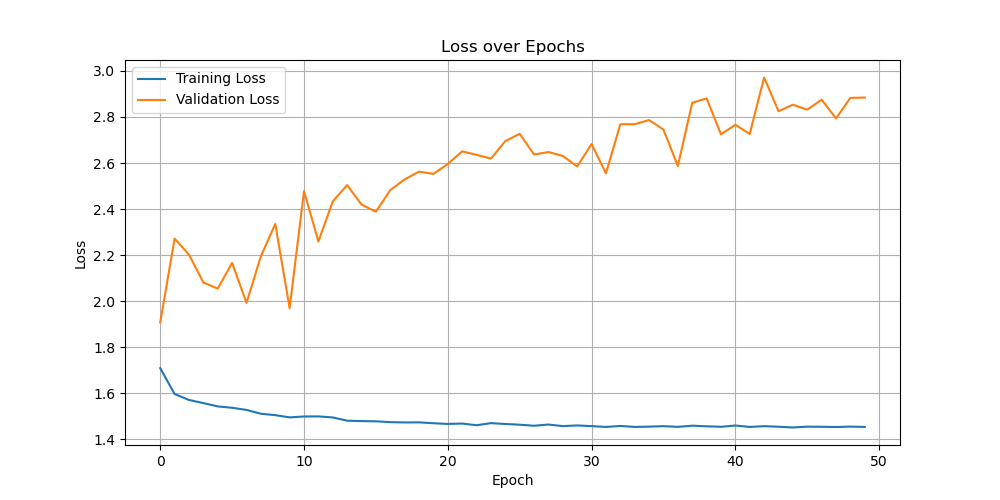
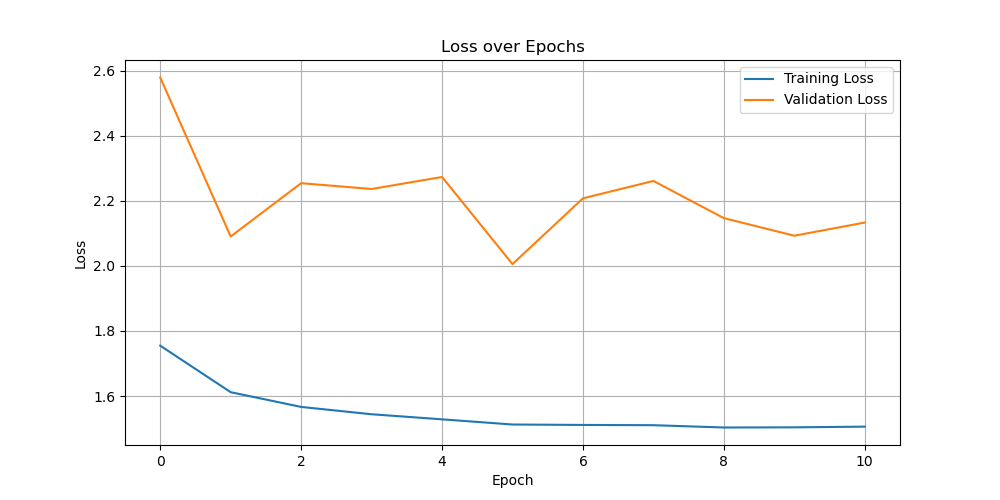
add earlystopping, test evaluate, use src data, and change structure of StyleEncoderContrastive

diff --git a/train_style_encoder.py b/train_style_encoder.py
@@ -6,9 +6,11 @@ import torch.nn as nn
 import torch.nn.functional as F
 from torchvision import transforms, models
 from torch import flatten
-from sklearn.manifold import TSNE
+import numpy as np
 import matplotlib.pyplot as plt
 from tqdm import tqdm
+from sklearn.metrics import classification_report
+from sklearn.manifold import TSNE
 
 from datamodules.face_datamodule import FaceDataModule
 from recognition.external_mapping import make_external_mapping
@@ -16,37 +18,64 @@ from recognition.recognition_helper import RecognitionModel, make_recognition_mo
 
 continue_training = False
 
+class EarlyStopping:
+    def __init__(self, patience=5, delta=0):
+        self.patience = patience
+        self.delta = delta
+        self.best_score = None
+        self.early_stop = False
+        self.counter = 0
+        self.best_model_state = None
+
+    def __call__(self, val_loss, model):
+        score = -val_loss
+        if self.best_score is None:
+            self.best_score = score
+            self.best_model_state = model.state_dict()
+        elif score < self.best_score + self.delta:
+            self.counter += 1
+            if self.counter >= self.patience:
+                self.early_stop = True
+        else:
+            self.best_score = score
+            self.best_model_state = model.state_dict()
+            self.counter = 0
+
+    def load_best_model(self, model):
+        model.load_state_dict(self.best_model_state)
+
 class StyleEncoderContrastive(nn.Module):
-    def __init__(self, external_mapping, channels=512, features=26, num_classes=7, batch_size=16):
-        # features is K*k +1 which here k is 5
+    def __init__(self, external_mapping, channels=512, features=26, num_classes=7):
         super(StyleEncoderContrastive, self).__init__()
         self.external_mapping = external_mapping
         self.channels = channels
         self.features = features
 
-        # Global Average Pooling
         self.global_pool = nn.AdaptiveAvgPool1d(1)  # convert (B, C, T) to (B, C)
-        self.dim = 128
 
         self.classifier = nn.Sequential(
-            nn.Flatten(),
-            nn.BatchNorm1d(self.features * batch_size),
-            nn.Linear(self.features * batch_size, self.dim),
+            nn.BatchNorm1d(features * features),
+            nn.Linear(features * features, 512),
             nn.ReLU(),
             nn.Dropout(0.3),
 
-            nn.BatchNorm1d(self.dim),
-            nn.Linear(self.dim, num_classes)
+            nn.BatchNorm1d(512),
+            nn.Linear(512, 256),
+            nn.ReLU(),
+            nn.Dropout(0.3),
+
+            nn.BatchNorm1d(256),
+            nn.Linear(256, num_classes)
         )
 
     def forward(self, features):
-        # features[0] shape: torch.Size([16, 64, 56, 56])
-        z = self.external_mapping(features)  # spatial: (B, C, H, W)
-        # z shape: torch.Size([16, 26, 512])
-        z_t = z.transpose(1, 2)
-        z_pooled = self.global_pool(z_t).squeeze(-1)
+        z = self.external_mapping(features)  # shape: (B, 26, 512)
+        z_t = z.transpose(1, 2)  # (B, 512, 26)
+        z_pooled = self.global_pool(z_t).squeeze(-1)  # (B, 512)
 
-        z_out = z@z_pooled.T
+        z_out = torch.bmm(z, z_pooled.unsqueeze(2)).squeeze(-1)  # (B, 26)
+        z_out = torch.bmm(z_out.unsqueeze(2), z_out.unsqueeze(1))  # (B, 26, 26)
+        z_out = z_out.view(z_out.size(0), -1)  # Flatten to (B, 676)
 
         logits = self.classifier(z_out)
         return logits, z_out
@@ -95,11 +124,13 @@ if __name__ == "__main__":
                                     channels=channels,
                                     features=features,
                                     num_classes=num_classes,
-                                    batch_size=batch_size).to(device)
+                                    # batch_size=batch_size
+                                    ).to(device)
 
     # set an optimizer and scheduler
     optimizer = torch.optim.Adam(model.parameters(), lr=lr, weight_decay=1e-5)
-    scheduler = torch.optim.lr_scheduler.ReduceLROnPlateau(optimizer, mode='min', factor=factor, patience=patience)
+    scheduler = torch.optim.lr_scheduler.ReduceLROnPlateau(optimizer, mode='min', factor=factor, patience=patience, min_lr=1e-6)
+    early_stopping = EarlyStopping(patience=10, delta=0.01)
 
     if continue_training:
         print('loading model from:', PATH_model)
@@ -121,7 +152,8 @@ if __name__ == "__main__":
     datamodule.setup()
     train_dataloader = datamodule.train_dataloader()
     val_dataloader = datamodule.val_dataloader()
-
+    test_dataloader = datamodule.test_dataloader()
+    print(model)
 
     for epoch in range(s_epoch, num_epochs):
         # Train model
@@ -133,9 +165,9 @@ if __name__ == "__main__":
         for batch in train_pbar:
             batch = {k: v.to(device) for k, v in batch.items()}
 
-            _, spatial = recognition_model(batch["exp_img"])
+            _, spatial = recognition_model(batch["id_img"])
             logits, _ = model(spatial)
-            labels = F.one_hot(batch['target_label'], num_classes=num_classes).float()
+            labels = F.one_hot(batch['src_label'], num_classes=num_classes).float()
 
             ce_loss = F.cross_entropy(logits, labels)
             optimizer.zero_grad()
@@ -146,7 +178,7 @@ if __name__ == "__main__":
             mean_train_loss += train_loss
 
             preds = torch.argmax(logits, dim=1)
-            corrects += (preds == batch['target_label']).float().sum().item()
+            corrects += (preds == batch['src_label']).float().sum().item()
             train_pbar.set_postfix({"Loss": f"{train_loss:.4f}", "lr": optimizer.param_groups[0]["lr"]})
 
         mean_train_loss = mean_train_loss / len(train_dataloader)
@@ -166,16 +198,16 @@ if __name__ == "__main__":
             val_pbar = tqdm(val_dataloader, desc="Validation", ncols=100)
             for batch in val_pbar:
                 batch = {k: v.to(device) for k, v in batch.items()}
-                _, spatial = recognition_model(batch["exp_img"])
+                _, spatial = recognition_model(batch["id_img"])
                 logits, _ = model(spatial)
-                labels = F.one_hot(batch['target_label'], num_classes=num_classes).float()
+                labels = F.one_hot(batch['src_label'], num_classes=num_classes).float()
 
                 ce_loss = F.cross_entropy(logits, labels)
                 val_loss = ce_loss.item()
                 mean_val_loss += val_loss
 
                 preds = torch.argmax(logits, dim=1)
-                corrects += (preds == batch['target_label']).float().sum().item()
+                corrects += (preds == batch['src_label']).float().sum().item()
 
 
                 val_pbar.set_postfix({"ValLoss": f"{val_loss:.4f}"})
@@ -207,6 +239,29 @@ if __name__ == "__main__":
                     'scheduler': scheduler
                     }, PATH_model)
 
+        early_stopping(val_loss, model)
+        if early_stopping.early_stop:
+            print("Early stopping")
+            break
+
+    early_stopping.load_best_model(model)
+
+    # Final evaluation on the test set
+    model.eval()
+    y_true = []
+    y_pred = []
+    with torch.no_grad():
+        for batch in test_dataloader:
+            batch = {k: v.to(device) for k, v in batch.items()}
+            _, spatial = recognition_model(batch["id_img"])
+            logits, _ = model(spatial)
+
+            preds = torch.argmax(logits, dim=1)
+
+            y_true+=batch['src_label'].cpu()
+            y_pred+=preds.cpu()
+
+    print(classification_report(y_true, y_pred))
 
     # === loss , accuracy plots ===
     plt.figure(figsize=(10, 5))
@@ -231,17 +286,17 @@ if __name__ == "__main__":
     plt.savefig('Accuracy.png')
     plt.close()
 
-    # === t-SNE visualization ===
+    # === TODO t-SNE visualization ===
     all_embeddings = []
     all_labels = []
 
     with torch.no_grad():
         for batch in val_dataloader:
             batch = {k: v.to(device) for k, v in batch.items()}
-            _, spatial = recognition_model(batch["exp_img"])
+            _, spatial = recognition_model(batch["id_img"])
             _, embedding = model(spatial)
             all_embeddings.append(embedding.cpu())
-            all_labels.append(batch['target_label'].cpu())
+            all_labels.append(batch['src_label'].cpu())
 
     embeddings = torch.cat(all_embeddings, dim=0).numpy()
     labels = torch.cat(all_labels, dim=0).numpy()
